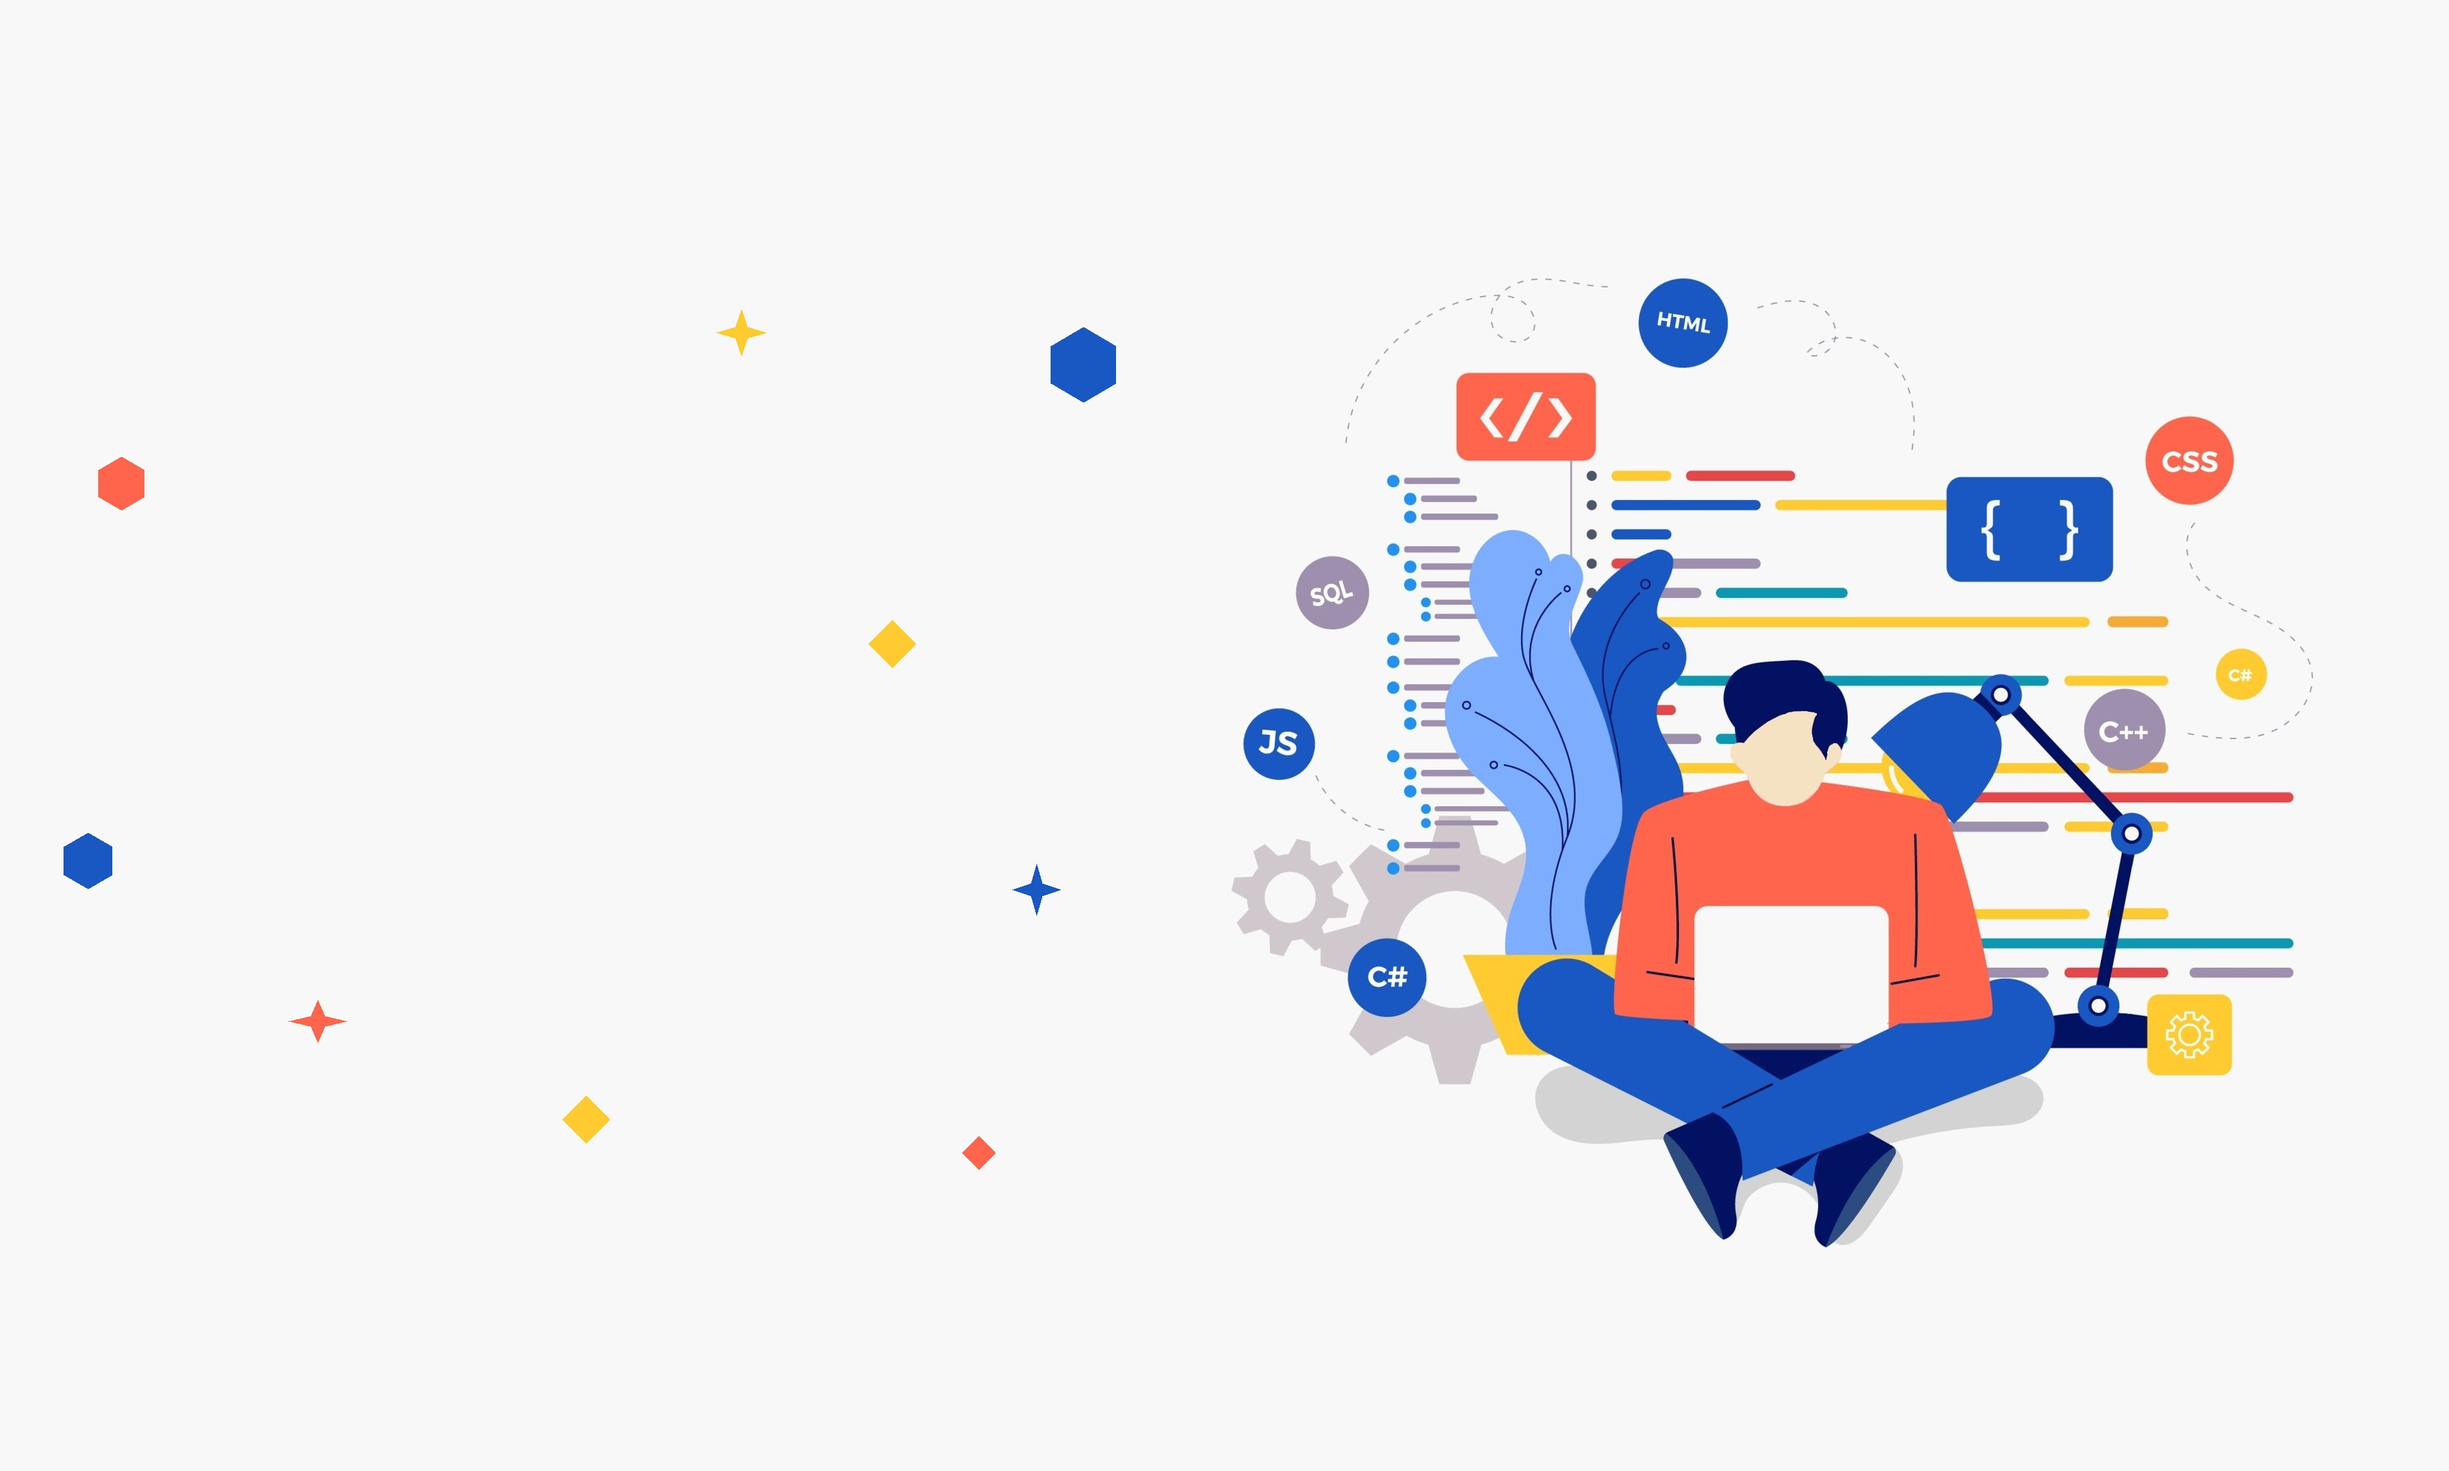
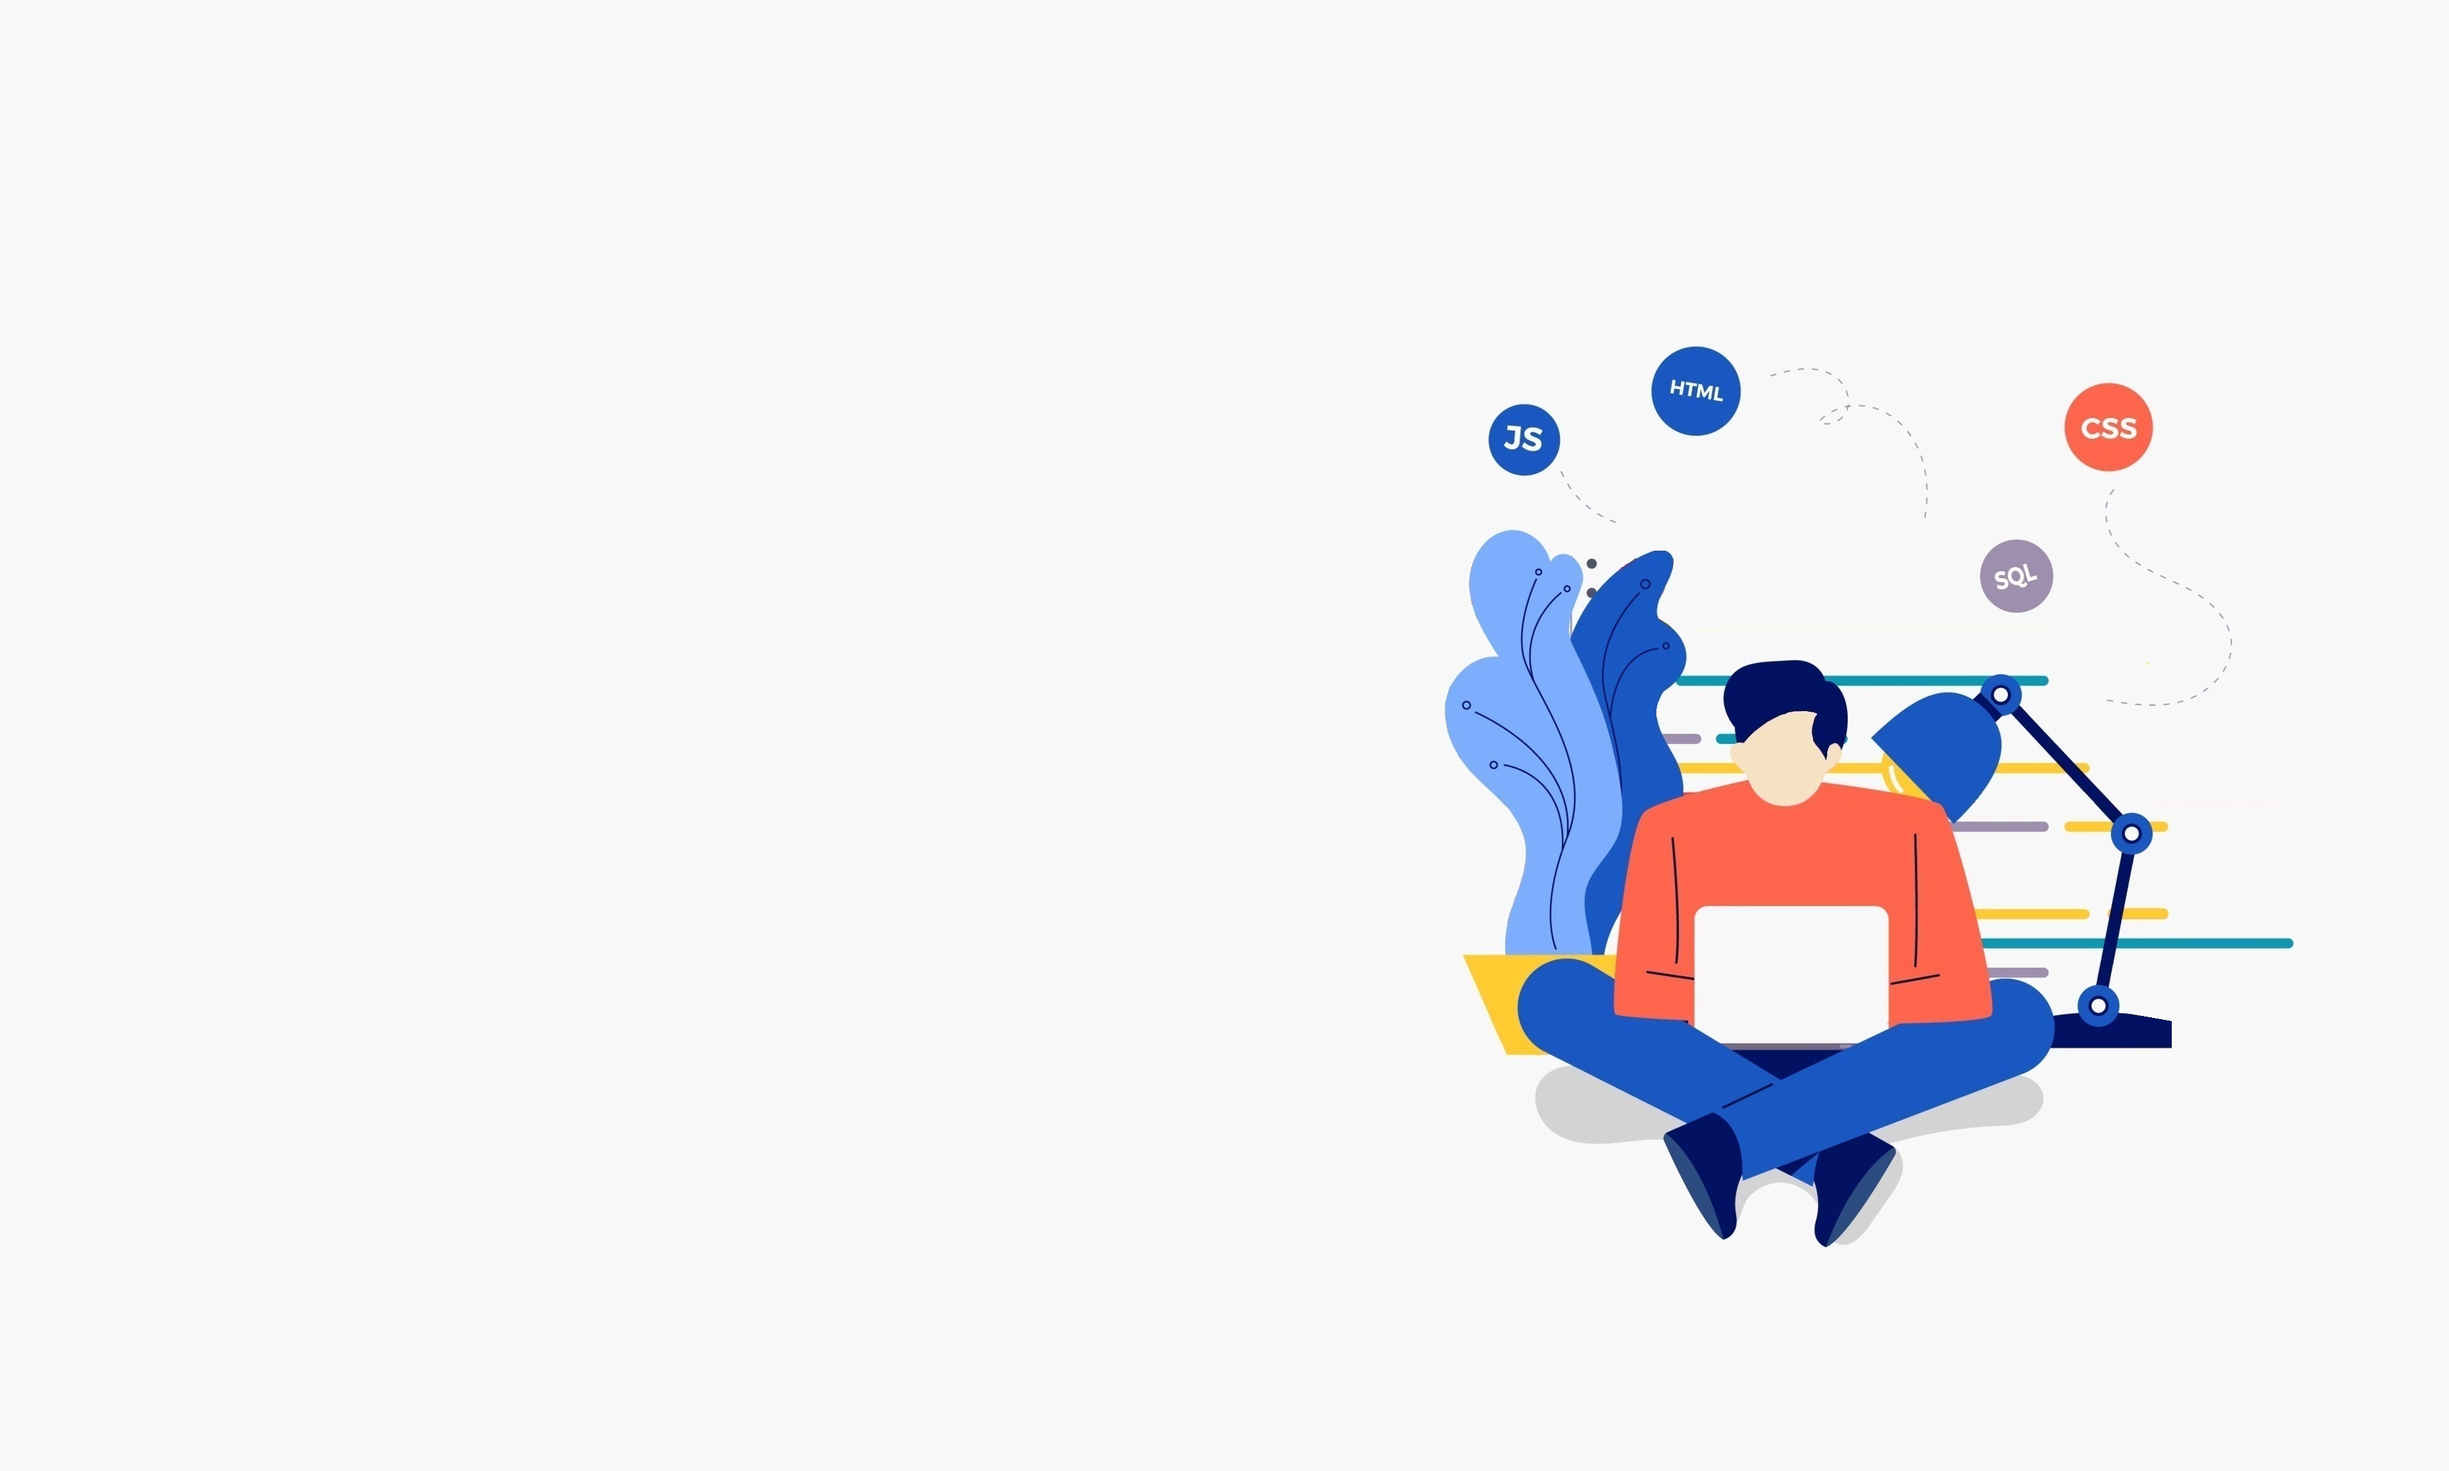
added animation background, edited backgroundd photo

diff --git a/src/css/App.css b/src/css/App.css
@@ -11,6 +11,8 @@
   --dark-cyan: rgb(65, 65, 65);
   --dark-cyan-lil-darker: rgb(43, 89, 92);
   --gentler-dark-gray: rgb(70,70,92);
+  --blue: rgb(25,88,194);
+  --red-pink: rgb(255,101,77);
 }
 @font-face {
   font-family: MontserratThin;
@@ -25,7 +27,7 @@ body {
   background-color: var(--basically-white);
   /* background: url("../image/scattered-forcefields.svg"); */
   /* background: url("../image/generated.svg"); */
-  background-image: url('../image/homepage_background_static2.png');
+  /* background-image: url('../image/homepage_background_static2.png'); */
   background-image: url('../image/coding_background.jpg');
   background-repeat: no-repeat;
   background-attachment: fixed;
@@ -59,7 +61,7 @@ body {
   position: absolute;
   width: 20px;
   margin-left: 5.8vw;
-  margin-top: 0.8vh;
+  margin-top: 2vh;
   animation: fadeinfromtop 1s ease;
 }
 .logo:hover {
@@ -69,7 +71,7 @@ body {
 
 .website-top-left-title {
   position: absolute;
-  margin-top: 0.8vh;
+  margin-top: 2vh;
   margin-left: 8vw;
   color: var(--basically-white);
   font-family: Montserrat;
@@ -78,8 +80,8 @@ body {
 }
 .navbar-container {
   background-color: rgb(70, 70, 70);
-  padding-top: 1.5vh;
   padding-bottom: 0.5vh;
+  z-index: 1;
 }
 .navbar-flex-container {
   background-color: rgb(70, 70, 70);
@@ -98,6 +100,7 @@ body {
   color: var(--basically-white);
   padding-left: 4vw;
   padding-right: 4vw;
+  padding-top: 1.5vh;
   text-decoration: none;
   border-left: 1px solid black;
   text-align: center;
@@ -105,6 +108,7 @@ body {
 }
 .nav-link:hover {
   box-shadow: 0px 5px 5px -1px #000;
+  background-color: rgb(82, 82, 82);
   /* color: var(--dark-hover); */
   animation: buttonhover 0.3s ease;
   transform: translateY(-1px);
@@ -247,7 +251,7 @@ body {
   animation: fadeinfromleftsubtle 1s ease;
 }
 
-.project-description-container {
+.project-component-container {
   display: block;
   box-sizing: border-box;
   width: 90vw;
@@ -261,6 +265,7 @@ body {
   
   animation: fadeinfromleftsubtle 1s ease;
 }
+
 .project-component-left-side-container {
   /* background-color: yellow; */
   box-sizing: border-box;
@@ -269,11 +274,12 @@ body {
   overflow: hidden;
   flex-direction: row;
   padding-left: 3vw;
-  min-height: calc(10vw + 20vh);
-  width: 55vw;
+  min-height: calc(10vw + 25vh);
+  width: 50vw;
 }
 .project-component-left-side-container h3 {
-  color: var(--gentler-dark-gray);
+  /* color: var(--gentler-dark-gray); */
+  color:var(--blue);
   font-family: Montserrat;
 }
 .project-component-left-side-container p {
@@ -282,7 +288,7 @@ body {
 }
 .project-component-flex-container {
   position: relative;
-  min-height: calc(10vw + 20vh);
+  min-height: calc(10vw + 25vh);
   display: flex;
   flex-direction: column;
 }
@@ -303,10 +309,11 @@ body {
   padding-left: 2vw;
   padding-right: 2vw;
   padding-top: 1.5vh;
-  width: 35vw;
+  width: 40vw;
   min-height: 40vh;
 }
 .project-thumbnail {
+  position: relative;
   max-width:100%;
   height: auto;
 }
@@ -444,6 +451,9 @@ body {
   border-left: 130px solid var(--dark-cyan);
 }
 
+.contact-page {
+  background-color: var(--basically-white);
+}
 .contact-page h2 {
   padding-left: 3vw;
   font-family: Montserrat;
@@ -571,12 +581,14 @@ body {
   from {
     box-shadow: none;
     /* color: var(--dark); */
+    background-color: rgb(70,70,70);
     transform: translateY(0px);
     opacity: 1;
   }
   to {
     box-shadow: 0px 5px 5px -1px #000;
     /* color: var(--dark-hover); */
+  background-color: rgb(82, 82, 82);
     transform: translateY(-1px);
     opacity: 1;
   }
@@ -621,7 +633,124 @@ body {
 
 @media screen and (max-width: 660px) {
   .project-component-left-side-container {
-    background-color: aqua;
+    position: relative;
+    display: block;
+    width: 100%;
+  }
+  .project-component-container {
+    height: 90vh;
+  }
+  .project-thumbnail-container {
+    width: 60vw;
+    min-height: 20vh;
+    max-height: 20vh;
+  }
+  
+}
+
+.animated-sprite {
+  z-index: -1;
+}
+#sprite1 {
+  position: absolute;
+  left: 43vw;
+  top: 15vh;
+  animation: floatupdiagonal 7.7s linear;
+  width: 38px;
+  height: 40px;
+}
+#sprite2 {
+  position: absolute;
+  left: 4vw;
+  top: 24vh;
+  animation: floatdown 7.7s linear;
+  width: 28px;
+  height: 28px;
+}
+
+#sprite3 {
+  position: absolute;
+  left: 2vw;
+  top: 58vh;
+  animation: floatdownslanted 7.7s linear;
+  width: 28px;
+  height: 28px;
+}
+
+#sprite4 {
+  position: absolute;
+  left: 29vw;
+  top: 9vh;
+  animation: floatdowndiagonal 7.7s linear;
+  width: 28px;
+  height: 28px;
+}
+#sprite5 {
+  position: absolute;
+  left: 23vw;
+  top: 84vh;
+  animation: floatupdiagonal 7.7s linear;
+  width: 28px;
+  height: 28px;
+}
+
+#sprite6 {
+  position: absolute;
+  left: 40vw;
+  top: 83vh;
+  animation: floatrightup 7.7s linear;
+  width: 25px;
+  height: 25px;
+}
+
+@keyframes floatupslanted {
+  from {
+    transform: translate(0, 0) rotate(0deg);
+  } 
+  to {
+    transform: translate(-15px, -40px) rotate(-30deg);
+  }
+}
+
+@keyframes floatdownslanted {
+  from {
+    transform: translate(0, 0);
+  } 
+  to {
+    transform: translate(40px, 15px) rotate(30deg);
+  }
+}
+
+@keyframes floatdown {
+  from {
+    transform: translateY(0);
+  } 
+  to {
+    transform: translate(-5px, 40px) rotate(30deg);
+  }
+}
+@keyframes floatdowndiagonal {
+  from {
+    transform: translateY(0) translateX(0);
+  } 
+  to {
+    transform: translateY(40px) translateX(40px) rotate(30deg);
+  }
+}
+@keyframes floatupdiagonal {
+  from {
+    transform: translateY(0) translateX(0);
+  } 
+  to {
+    transform: translateY(-30px) translateX(-30px) rotate(-30deg);
+  }
+}
+@keyframes floatrightup {
+  from {
+    transform: translate(0, 0);
+  } 
+  to {
+    transform: translate(40px, -30px) rotate(30deg);
   }
   
 }

diff --git a/src/components/ProjectsPage.js b/src/components/ProjectsPage.js
@@ -11,7 +11,7 @@ const ProjectsPage = () => {
 
             <ProjectTabComponent 
             title="Full-Stack Development of DocuMint"
-            description="DocuMint was a web application enabling University of Phoenix
+            description="A web application enabling University of Phoenix
             employees to view pdf documents stored in their AWS S3 database."
             technologies={
                 ["Frontend: React, CSS", 
@@ -27,8 +27,8 @@ const ProjectsPage = () => {
             
             <ProjectTabComponent 
             title="Backend database management of Agora, a cryptocurrency-browsing website"
-            description="Co-wrote script to fetch cryptocurrency market data from the public APIs of 19
-            popular cryptocurrency exchanges, and populate them into our Firebase database."
+            description="Node.js script that populates our Firebase database with cryptocurrency market data from 19
+            cryptocurrency exchanges."
             technologies={
                 ["Node.js"
                 ]}
@@ -42,7 +42,7 @@ const ProjectsPage = () => {
 
             <ProjectTabComponent 
             title="Shockwave.io online multiplayer game"
-            description="Created a multiplayer game where players jump around and kill each other with shockwaves
+            description="A multiplayer game where players jump around and kill each other with shockwaves
             on the ground."
             technologies={
                 ["Frontend: vanilla Javascript & HTML",
@@ -60,8 +60,8 @@ const ProjectsPage = () => {
 
             <ProjectTabComponent 
             title="SDU Helper, a Windows Desktop application for University of Phoenix"
-            description="This is an application written in C#. As a support tool for IT employees, it generates
-            XML files based on the results of SQL queries to their financial-aid document database."
+            description="An application that generates
+            XMLs based on the results of SQL queries to a financial-aid document database."
             technologies={
                 ["C#, SQL",
                 ]}

diff --git a/src/components/AnimatedBackground.js b/src/components/AnimatedBackground.js
@@ -1,0 +1,22 @@
+
+import sprite1 from "../image/sprite1_clear.png"
+import sprite2 from "../image/sprite2_clear.png"
+import sprite4 from "../image/sprite4_clear.png"
+import sprite5 from "../image/sprite5_clear.png"
+import sprite6 from "../image/sprite6_clear.png"
+
+const AnimatedBackground = () => {
+    return (
+    <div className="animated-background">
+    <img src={sprite1} id="sprite1" className="animated-sprite"/>
+    <img src={sprite2} id="sprite2" className="animated-sprite"/>
+    <img src={sprite1} id="sprite3" className="animated-sprite"/>
+    <img src={sprite4} id="sprite4" className="animated-sprite"/>
+    <img src={sprite5} id="sprite5" className="animated-sprite"/>
+    <img src={sprite6} id="sprite6" className="animated-sprite"/>
+    
+    </div>
+    );
+}
+
+export default AnimatedBackground;

diff --git a/src/components/HomePage.js b/src/components/HomePage.js
@@ -1,5 +1,5 @@
 import { useEffect, useState } from "react";
-
+import AnimatedBackground from './AnimatedBackground';
 const experienceSectionHeight = 260;
 
 const HomePage = () => {
@@ -42,6 +42,7 @@ const HomePage = () => {
 
     return ( 
         <div onScroll={handleScroll} className="homepage-container">
+            <AnimatedBackground />
             <div className="homepage-section-1">
                 <div className="homepage-main-intro-container">
                     <span className="vertical-line-animation" id="vertical-line-1"></span>

diff --git a/src/components/ProjectTabComponent.js b/src/components/ProjectTabComponent.js
@@ -2,7 +2,7 @@ import external_link_image from "../image/external_link_image.png"
 import { Link } from "react-router-dom";
 const ProjectTabComponent = ({title, description, technologies, hasSourceCode, sourceCodeLink, hasProjectDemo, projectDemoLink, demoLinkType, thumbnail}) => {
     return ( 
-        <div className="project-description-container">
+        <div className="project-component-container">
                 <div className="columns-side-by-side">
 
                     <div className="project-component-left-side-container">
